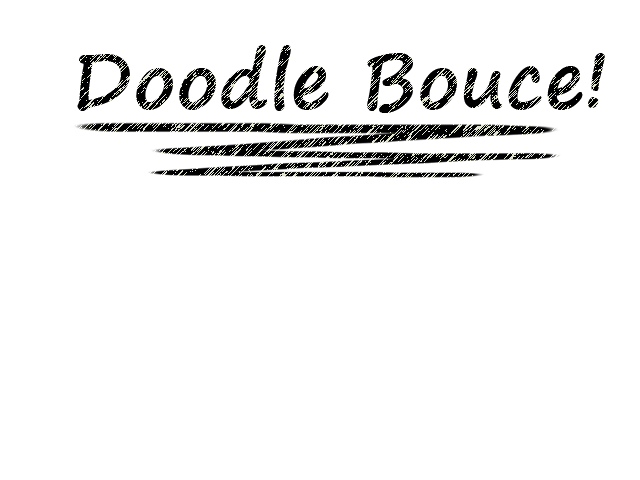
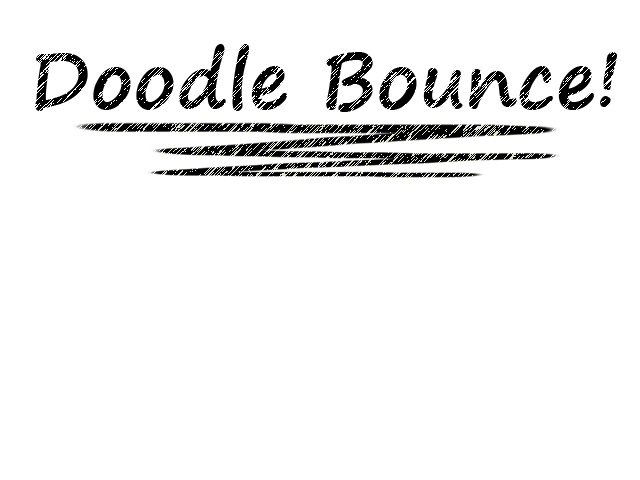
Fixed Title Name & Wiggle Speed

Changed region(s): [[0.0312, 0.0938, 0.9688, 0.25]]

diff --git a/COMP397-Final/Scripts/objects/wiggletext.js b/COMP397-Final/Scripts/objects/wiggletext.js
@@ -27,7 +27,7 @@ var objects;
         //GAME METHODS
         Wiggle.prototype.update = function () {
             this._counter += createjs.Ticker.getMeasuredFPS();
-            if (this._counter >= 700) {
+            if (this._counter >= 1000) {
                 if (this._moved == false) {
                     this.x += this.moveX;
                     this.y += this.moveY;

diff --git a/COMP397-Final/Scripts/objects/wiggletext.ts b/COMP397-Final/Scripts/objects/wiggletext.ts
@@ -31,7 +31,7 @@ module objects {
         //GAME METHODS
         public update() {
             this._counter += createjs.Ticker.getMeasuredFPS();
-            if (this._counter >= 700) {
+            if (this._counter >= 1000) {
                 if (this._moved == false) {
                     this.x += this.moveX;
                     this.y += this.moveY;
